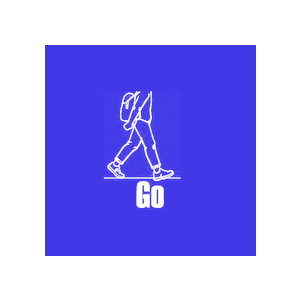
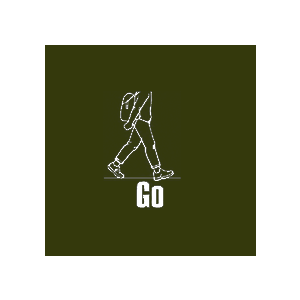
Recolore a logomarca de indigo para o verde-oliva da nova identidade
Recolore logo.png, logo-pill.png, icon-mark.png, os 5 frames da
splash, ícones do favicon/PWA e o theme_color do manifest, via script
ImageMagick (máscara de "tinta vs. preenchimento branco" que preserva
a arte original, só troca a cor). logo-black.png/logo-white.png
ficam de fora de propósito (variantes monocromáticas por design).

diff --git a/src/app/manifest.ts b/src/app/manifest.ts
@@ -7,7 +7,7 @@ export default function manifest(): MetadataRoute.Manifest {
     start_url: '/dashboard',
     display: 'standalone',
     background_color: '#ffffff',
-    theme_color: '#4F46E5',
+    theme_color: '#34390c',
     icons: [
       { src: '/icons/icon-192.png', sizes: '192x192', type: 'image/png' },
       { src: '/icons/icon-512.png', sizes: '512x512', type: 'image/png' },
